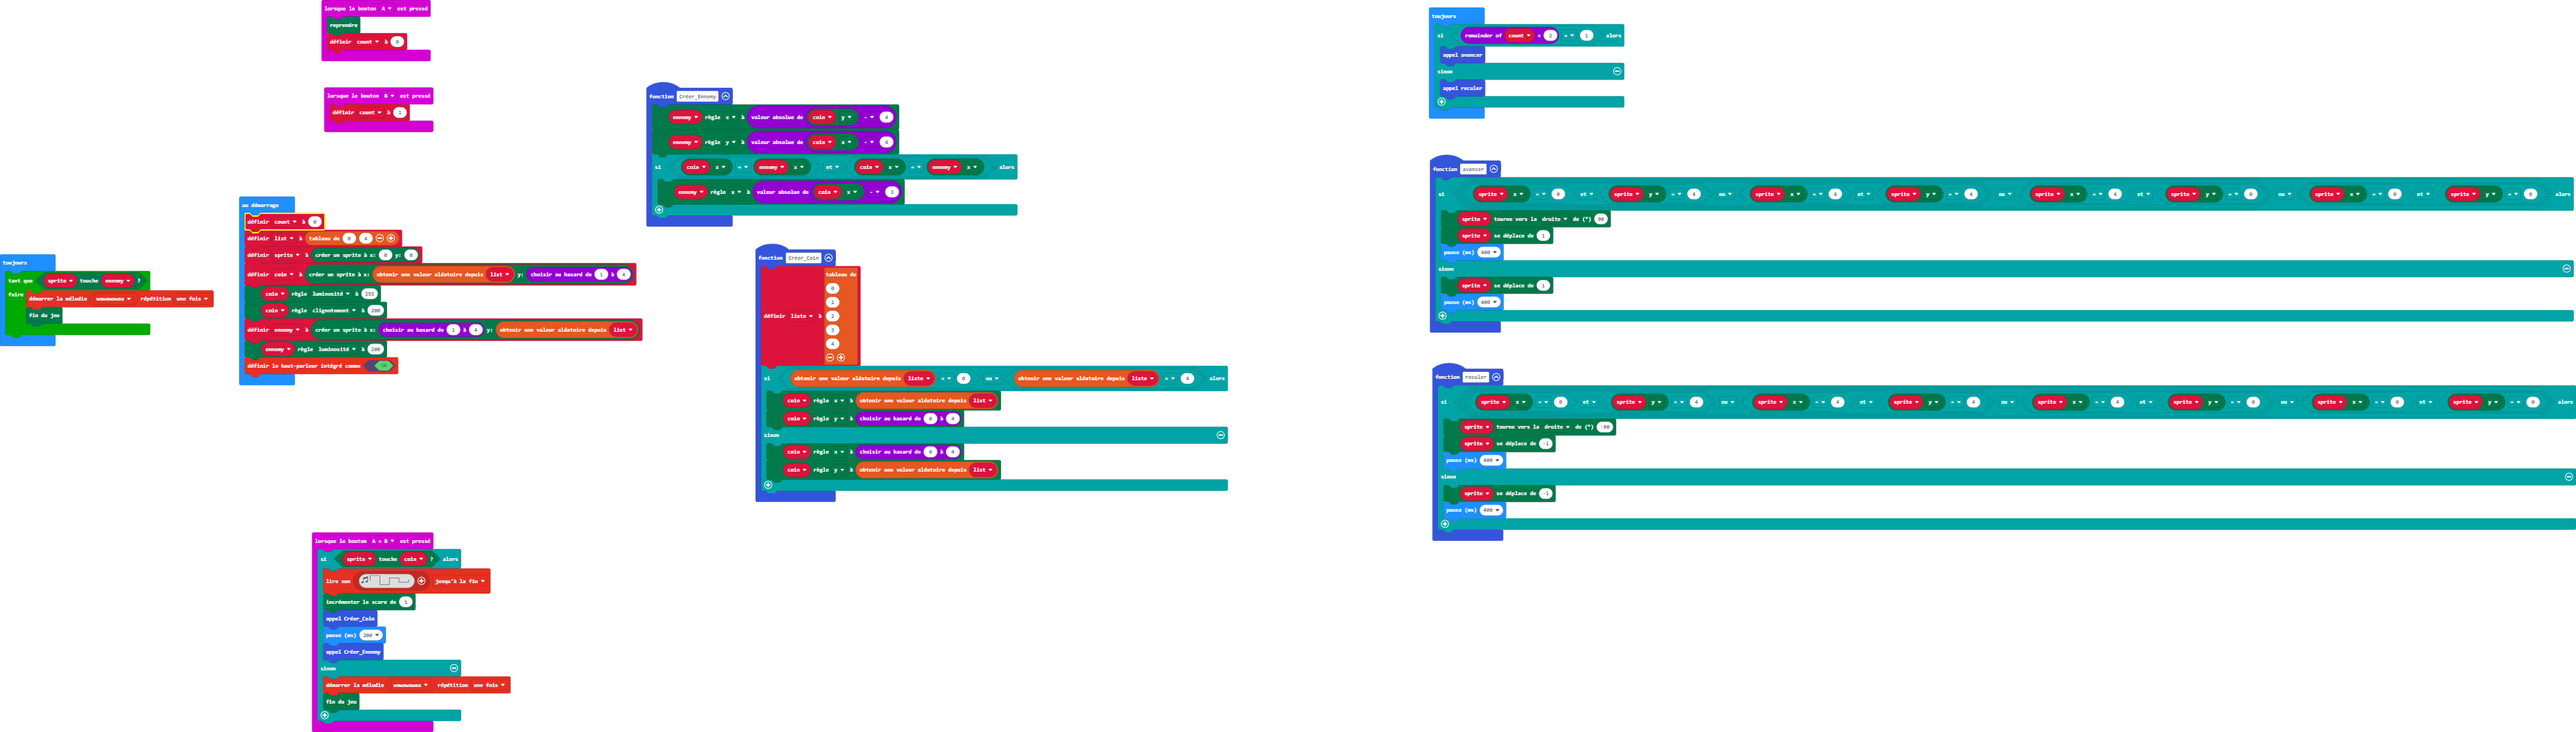
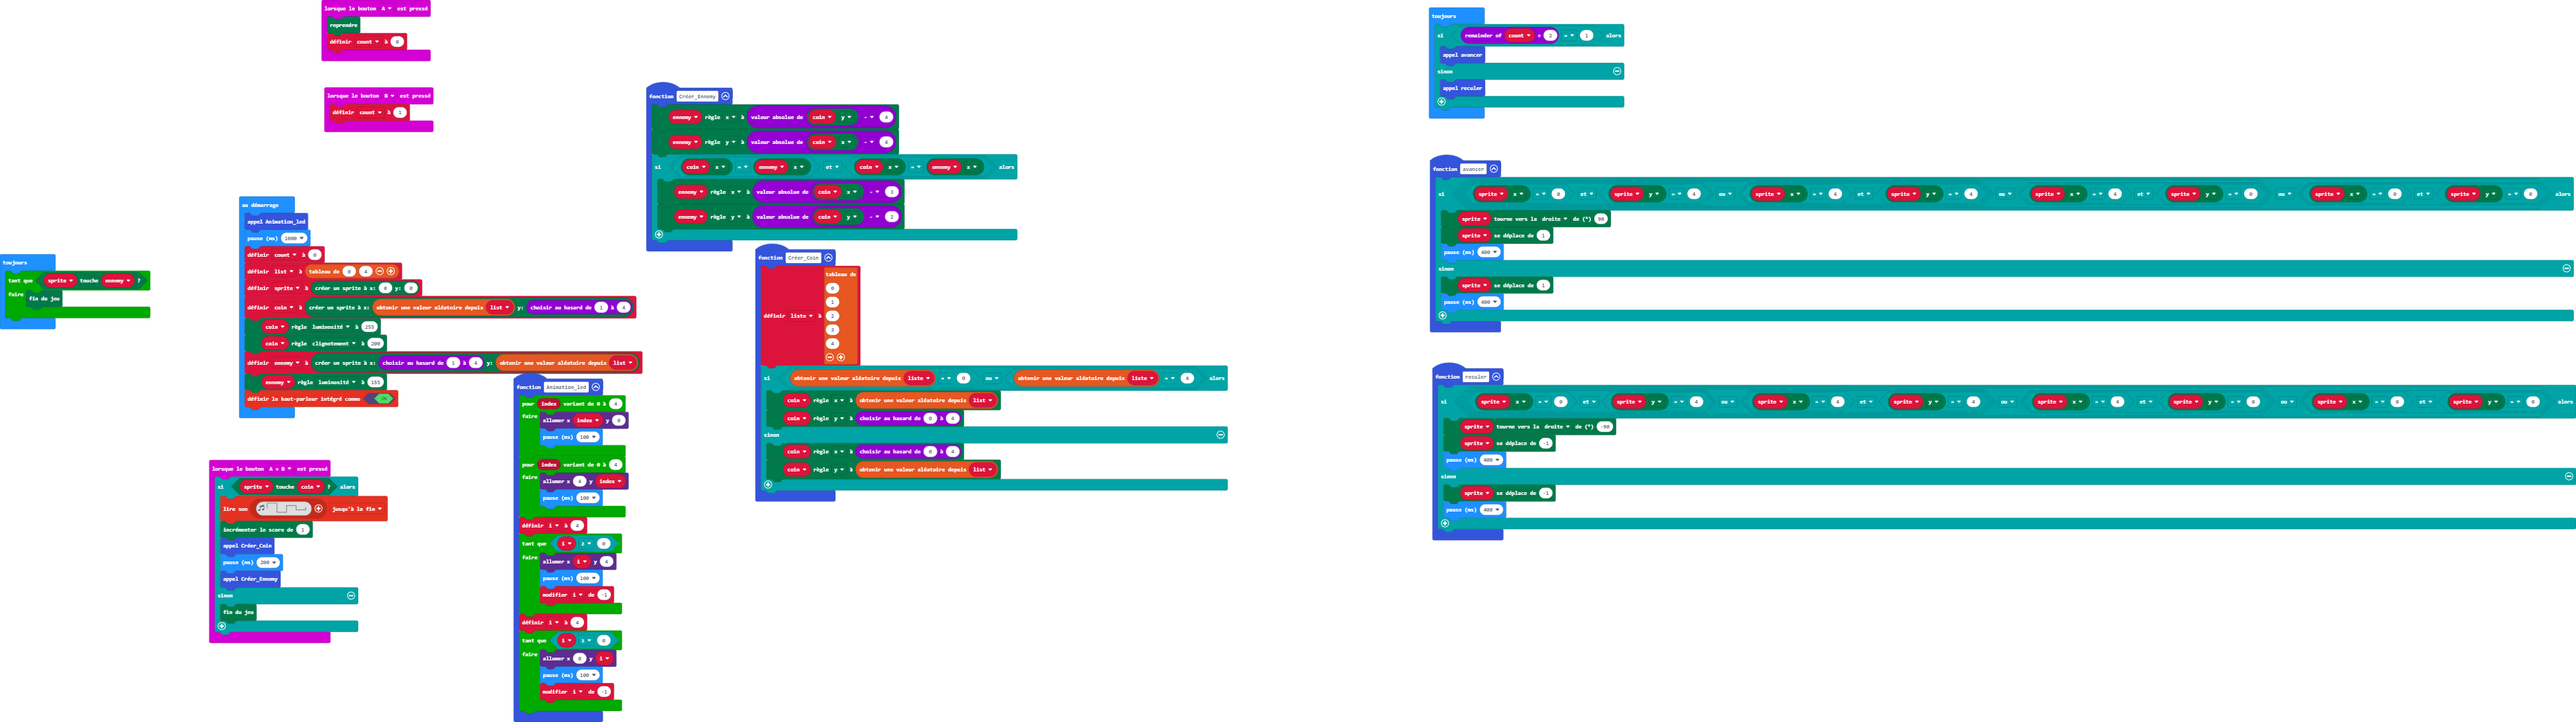
new version with animation

diff --git a/main.ts b/main.ts
@@ -1,3 +1,25 @@
+function Animation_led () {
+    for (let index = 0; index <= 4; index++) {
+        led.plot(index, 0)
+        basic.pause(100)
+    }
+    for (let index = 0; index <= 4; index++) {
+        led.plot(4, index)
+        basic.pause(100)
+    }
+    i = 4
+    while (i >= 0) {
+        led.plot(i, 4)
+        basic.pause(100)
+        i += -1
+    }
+    i = 4
+    while (i >= 0) {
+        led.plot(0, i)
+        basic.pause(100)
+        i += -1
+    }
+}
 input.onButtonPressed(Button.A, function () {
     game.resume()
     count = 0
@@ -20,7 +42,6 @@ input.onButtonPressed(Button.AB, function () {
         basic.pause(200)
         Créer_Ennemy()
     } else {
-        music.startMelody(music.builtInMelody(Melodies.Wawawawaa), MelodyOptions.Once)
         game.gameOver()
     }
 })
@@ -29,6 +50,7 @@ function Créer_Ennemy () {
     ennemy.set(LedSpriteProperty.Y, Math.abs(coin.get(LedSpriteProperty.X) - 4))
     if (coin.get(LedSpriteProperty.X) == ennemy.get(LedSpriteProperty.X) && coin.get(LedSpriteProperty.X) == ennemy.get(LedSpriteProperty.X)) {
         ennemy.set(LedSpriteProperty.X, Math.abs(coin.get(LedSpriteProperty.X) - 3))
+        ennemy.set(LedSpriteProperty.Y, Math.abs(coin.get(LedSpriteProperty.Y) - 2))
     }
 }
 function Créer_Coin () {
@@ -61,11 +83,14 @@ function avancer () {
     }
 }
 let liste: number[] = []
+let i = 0
 let ennemy: game.LedSprite = null
 let coin: game.LedSprite = null
 let sprite: game.LedSprite = null
 let list: number[] = []
 let count = 0
+Animation_led()
+basic.pause(1000)
 count = 0
 list = [0, 4]
 sprite = game.createSprite(0, 0)
@@ -73,7 +98,7 @@ coin = game.createSprite(list._pickRandom(), randint(1, 4))
 coin.set(LedSpriteProperty.Brightness, 255)
 coin.set(LedSpriteProperty.Blink, 200)
 ennemy = game.createSprite(randint(1, 4), list._pickRandom())
-ennemy.set(LedSpriteProperty.Brightness, 200)
+ennemy.set(LedSpriteProperty.Brightness, 155)
 music.setBuiltInSpeakerEnabled(true)
 basic.forever(function () {
     if (count % 2 == 1) {
@@ -84,7 +109,6 @@ basic.forever(function () {
 })
 basic.forever(function () {
     while (sprite.isTouching(ennemy)) {
-        music.startMelody(music.builtInMelody(Melodies.Wawawawaa), MelodyOptions.Once)
         game.gameOver()
     }
 })
